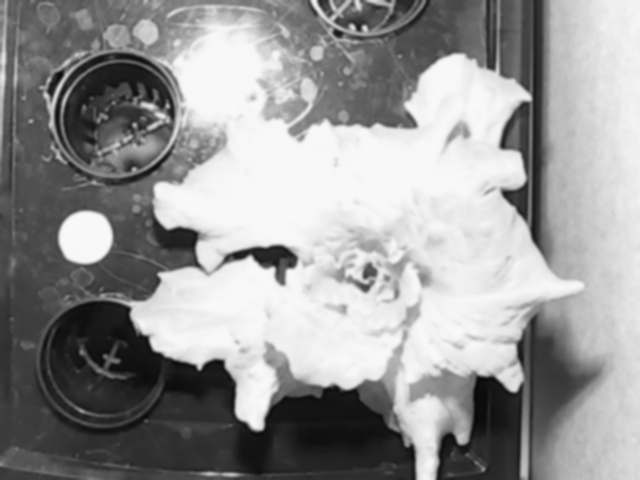
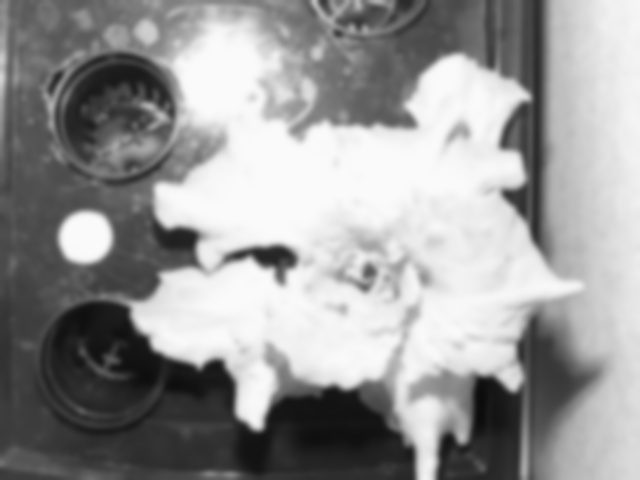
pfc_cv_measuerer.py add Color Mapping

diff --git a/cv/pfc_cv_measurer.py b/cv/pfc_cv_measurer.py
@@ -10,7 +10,8 @@ from matplotlib import pyplot as plt
 from pprint import pprint
 import time
 from scipy.spatial import distance as dist
-
+import numpy as np
+from pprint import pprint
 
 class pfc_cv_measurer:
 	COIN_PX = None
@@ -19,6 +20,7 @@ class pfc_cv_measurer:
 	ORIGINAL_FILE_PATH = None
 	IMAGES = {
 							'ORIGINAL' : None,
+							'COLOR' : None,
 							'GRAY_IMG': None,
 							'GAUSSIAN_IMG' : None,
 							'CANNY_IMG' : None,
@@ -30,6 +32,8 @@ class pfc_cv_measurer:
 	THRESHOLD_MINIMUM_SIDE = 30
 	PX_MM_RATIO = 0
 
+	BOUNDARIES = []
+
 	# 클래스 인스턴스시에 이미 CV 프로세스를 진행할 이미지가 접근가능하다.
 	# CV 간에 참조해야하는 수치를 인스턴스시에 생성자의 매개변수로 전달받는다.
 	def __init__(self,coin_px=10,coin_mm=10,max_contours=20,opath=None,carea=200,min_side=30):
@@ -37,6 +41,12 @@ class pfc_cv_measurer:
 		if opath == None:
 			return False
 			sys.exit()
+
+		self.BOUNDARIES = [
+			(self.color_rgb_to_gbr(84,141,21),self.color_rgb_to_gbr(195,250,145))
+			]
+
+
 
 		self.COIN_PX = coin_px
 		self.COIN_MM = coin_mm
@@ -47,10 +57,12 @@ class pfc_cv_measurer:
 
 		self.PX_MM_RATIO = self.calc_PxForMmRatio(self.COIN_PX,self.COIN_MM)
 
-
+		self.color_detection()
 		self.transition_images()
 		self.find_contours()
-		self.save_images(debug_save=True)
+		self.color_detection()
+		# If you want save all of image on the transition process, set debug_save = True
+		self.save_images(debug_save=False)
 
 	# CV에 의해 식별된 Contour의 각 좌표를 순회하며, 해당 좌표가 대표하는 위치를 찾는다. 아래의 4개 위치 식별.
 	# 1.TOP LEFT
@@ -76,14 +88,42 @@ class pfc_cv_measurer:
 	def get_midpoint(self,ptA,ptB):
 		return ((ptA[0] + ptB[0]) * 0.5, (ptA[1] + ptB[1]) * 0.5)
 
+	def color_rgb_to_gbr(self,r,g,b):
+		return [b,g,r]
+	def color_detection(self):
+		self.IMAGES['ORIGINAL'] = cv2.imread(self.ORIGINAL_FILE_PATH)
+
+
+		(lower, upper) = self.BOUNDARIES[0]
+		# create NumPy arrays from the boundaries
+		lower = np.array(lower, dtype = "uint8")
+		upper = np.array(upper, dtype = "uint8")
+
+
+		# find the colors within the specified boundaries and apply
+		# the mask
+		mask = cv2.inRange(self.IMAGES['ORIGINAL'], lower, upper)
+
+
+		# output = cv2.bitwise_and(self.IMAGES['ORIGINAL'], self.IMAGES['ORIGINAL'] , mask = mask)
+		output = cv2.bitwise_and(self.IMAGES['ORIGINAL'], self.IMAGES['ORIGINAL'] , mask = mask)
+		self.IMAGES['COLOR'] = output
+		# show the images
+		# cv2.imshow("images", np.hstack([self.IMAGES['ORIGINAL'],output]))
+		# cv2.waitKey(0)
+
+
+
+
 	# 주어진 이미지의 GRAY/GAUSSIAN/CANNY/DILATE/ERODE 의 각 전처리를 수행한다.
 	def transition_images(self):
 
 		# 프로세싱처리가 필요한 오리지널 이미지 읽기
-		self.IMAGES['ORIGINAL'] = cv2.imread(self.ORIGINAL_FILE_PATH)
+		# self.IMAGES['ORIGINAL'] = cv2.imread(self.ORIGINAL_FILE_PATH)
 		self.IMAGES['CV_IMG'] = self.IMAGES['ORIGINAL'].copy()
-		self.IMAGES['GRAY_IMG'] = cv2.cvtColor(self.IMAGES['ORIGINAL'], cv2.COLOR_BGR2GRAY)
-		self.IMAGES['GAUSSIAN_IMG'] = cv2.GaussianBlur(self.IMAGES['GRAY_IMG'], (17,17),0)
+		# self.IMAGES['GRAY_IMG'] = cv2.cvtColor(self.IMAGES['ORIGINAL'], cv2.COLOR_BGR2GRAY)
+		self.IMAGES['GRAY_IMG'] = cv2.cvtColor(self.IMAGES['COLOR'], cv2.COLOR_BGR2GRAY)
+		self.IMAGES['GAUSSIAN_IMG'] = cv2.GaussianBlur(self.IMAGES['GRAY_IMG'], (5,5),0)
 		self.IMAGES['CANNY_IMG'] = cv2.Canny(self.IMAGES['GAUSSIAN_IMG'],50,80)
 		self.IMAGES['DILATE_IMG'] = cv2.dilate(self.IMAGES['CANNY_IMG'],None,iterations=2)
 		self.IMAGES['ERODE_IMG'] = cv2.erode(self.IMAGES['DILATE_IMG'],None,iterations=1)
@@ -145,8 +185,8 @@ class pfc_cv_measurer:
 			# print('=========')
 			mid_point_dot = tuple(map(lambda x: int(x), self.get_midpoint((tlblX, tlblY), (trbrX, trbrY))))
 
-			cv2.putText(self.IMAGES['CV_IMG'], str(round(self.PX_MM_RATIO * dA,2)) + "mm", (mid_point_dot[0]-60,mid_point_dot[1]-60), cv2.FONT_HERSHEY_SIMPLEX,1, (102,255,255),3)
-			cv2.putText(self.IMAGES['CV_IMG'], str(round(self.PX_MM_RATIO * dB,2)) + "mm", (mid_point_dot[0]+30,mid_point_dot[1]+30),cv2.FONT_HERSHEY_SIMPLEX,1, (102,255,255),3)
+			cv2.putText(self.IMAGES['CV_IMG'], str(round(self.PX_MM_RATIO * dA,2)) + "mm", (mid_point_dot[0]-60,mid_point_dot[1]-60), cv2.FONT_HERSHEY_SIMPLEX,1, (15,15,15),2)
+			cv2.putText(self.IMAGES['CV_IMG'], str(round(self.PX_MM_RATIO * dB,2)) + "mm", (mid_point_dot[0]+30,mid_point_dot[1]+30),cv2.FONT_HERSHEY_SIMPLEX,1, (15,15,15),2)
 
 			# cv2.putText(self.IMAGES['CV_IMG'], str(round(dA,2)) + "px", (mid_point_dot[0]-40,mid_point_dot[1]-40), cv2.FONT_HERSHEY_SIMPLEX,1, (102,255,255),3)
 			# cv2.putText(self.IMAGES['CV_IMG'], str(round(dB,2)) + "px", (mid_point_dot[0]+40,mid_point_dot[1]+40),cv2.FONT_HERSHEY_SIMPLEX,1, (102,255,255),3)
@@ -164,7 +204,7 @@ class pfc_cv_measurer:
 
 
 if __name__ == '__main__':
-	pfc_cv_measurer = pfc_cv_measurer(coin_px=52, coin_mm=24, max_contours=10, opath="/var/og/cam_imgs/20180105_204257.jpg",carea=600, min_side=50)
+	pfc_cv_measurer = pfc_cv_measurer(coin_px=52, coin_mm=24, max_contours=10, opath="/Users/house/DEV/pfc_v2/cv/ex_imgs/20180105_174607.jpg",carea=600, min_side=100)
 
 
 
